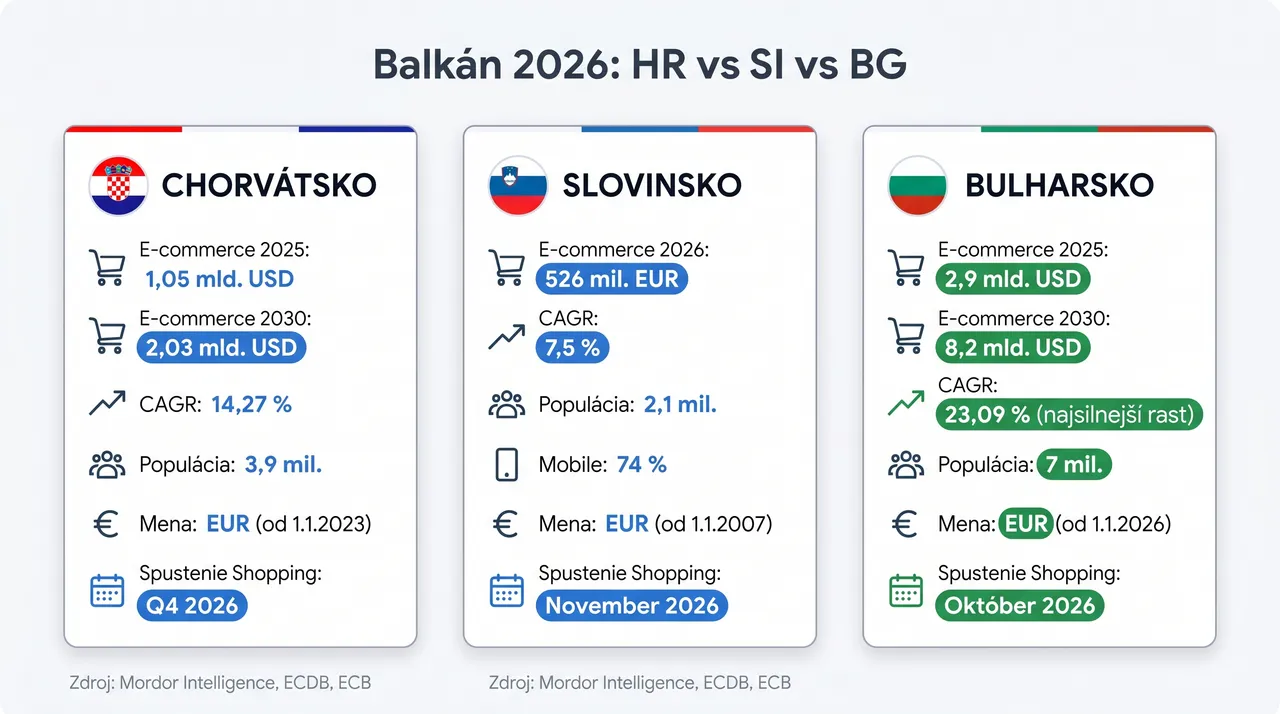
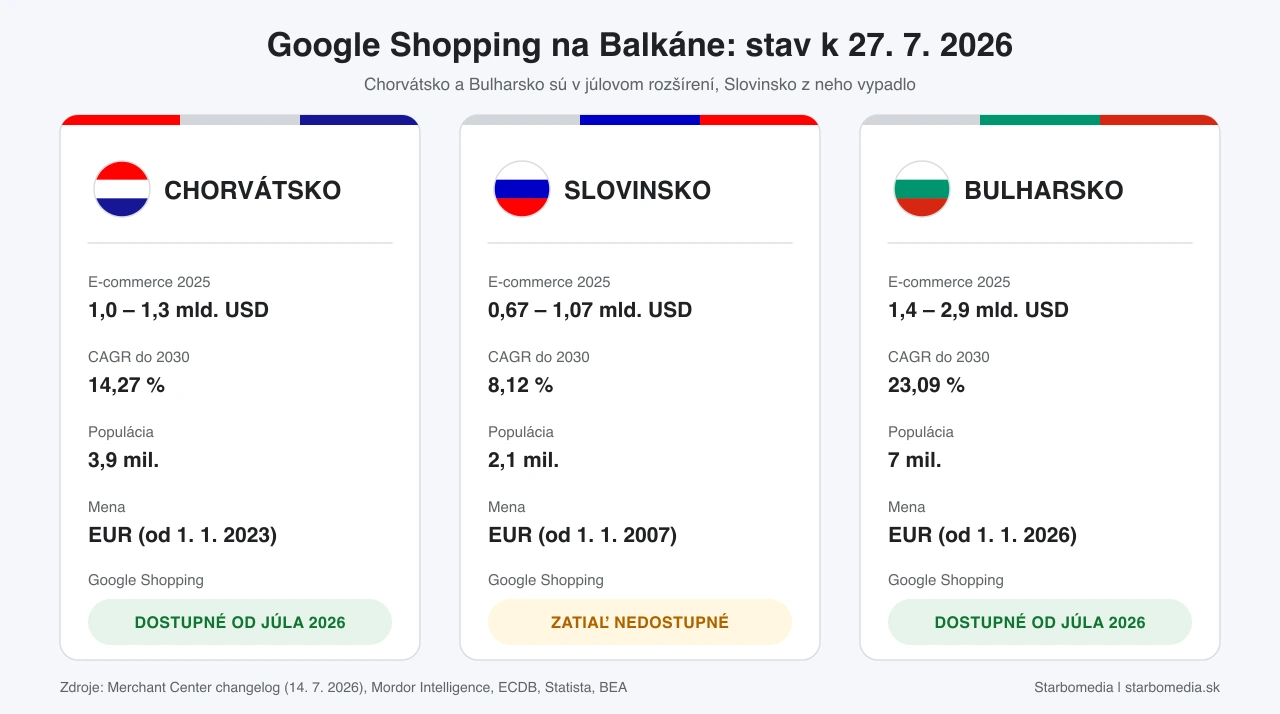
Aktualizuj Shopping Balkán článok na stav júl 2026
Google 14.7.2026 v Merchant Center changelogu otvoril Shopping ads
a free listings pre 14 trhov vrátane HR a BG. Slovinsko v zozname
nie je ani v oficiálnej tabuľke podporovaných krajín.

- nová sekcia s aktualizáciou + prepísaný TL;DR
- roadmapa prepísaná na aktuálny stav, marcový plán ponechaný ako kontext
- stavové riadky pri HR/SI/BG namiesto plánovaných sezónnych okien
- akčný plán prepísaný z "pripravte sa na Q4" na "spustite HR/BG teraz"
- FAQ: prepísaná úvodná otázka + nová o chýbajúcom Slovinsku
- porovnávacia infografika pregenerovaná (mala zlé dátumy spustenia)
- nový title, excerpt a modified; URL a datePublished nezmenené

diff --git a/src/content/blog/html/google-shopping-kampane-v-chorvatsku-slovinsku-a-bulharsku-co-prinesie-roll-out-v-2026.html b/src/content/blog/html/google-shopping-kampane-v-chorvatsku-slovinsku-a-bulharsku-co-prinesie-roll-out-v-2026.html
@@ -1,10 +1,11 @@
 <article class="ucp-article"><header>
-<p><time datetime="2026-04-28">28. apríla 2026</time> · Čas čítania: 17 min</p>
+<p><time datetime="2026-04-28">28. apríla 2026</time> · Aktualizované <time datetime="2026-07-27">27. júla 2026</time> · Čas čítania: 18 min</p>
 </header><nav aria-label="Obsah článku"><strong>Obsah</strong>
 <ol>
+<li><a href="#aktualizacia">Aktualizácia: čo sa zmenilo v júli 2026</a></li>
 <li><a href="#tldr">TL;DR</a></li>
 <li><a href="#co-sa-meni">Čo sa konkrétne mení</a></li>
-<li><a href="#roadmapa">Roadmapa rozšírenia (stav apríl 2026)</a></li>
+<li><a href="#roadmapa">Stav rozšírenia (júl 2026)</a></li>
 <li><a href="#preco-chybal">Prečo Shopping na týchto trhoch chýbal</a></li>
 <li><a href="#prilezitost">Príležitosť a riziká pre eshopy v 2026</a></li>
 <li><a href="#priprava">Praktická príprava pre eshopy</a></li>
@@ -14,21 +15,28 @@
 <li><a href="#faq">Často kladené otázky</a></li>
 </ol>
 </nav>
+<section id="aktualizacia">
+<h2>Aktualizácia: čo sa zmenilo v júli 2026</h2>
+<blockquote>
+<p><strong>Aktualizované 27. júla 2026.</strong> Rozšírenie medzičasom prebehlo – a dopadlo inak, než hovoril marcový plán. V <a target="_blank" href="https://support.google.com/merchants/announcements/6192467?hl=en" rel="noopener" title="Merchant Center announcements change log">changelogu Merchant Center</a> zo <strong>14. júla 2026</strong> Google oznámil, že Shopping ads aj bezplatné produktové záznamy sú <strong>od júla 2026</strong> dostupné v 14 nových krajinách. Medzi nimi je <strong>Chorvátsko aj Bulharsko</strong>. <strong>Slovinsko v tom zozname nie je</strong> – a nie je ani v oficiálnej tabuľke <a target="_blank" href="https://support.google.com/merchants/answer/160637" rel="noopener" title="Shopping ads availability by country and currency">podporovaných krajín a mien</a>, kde sú Chorvátsko aj Bulharsko už uvedené s menou EUR.</p>
+<p>Pôvodné delenie na Wave 1 (leto) a Wave 2 (Q4) teda v tejto podobe neplatí: <strong>HR a BG viete cieliť už dnes</strong>, <strong>SI zatiaľ nie</strong> a Google preň nekomunikoval náhradný termín. Text článku sme podľa toho prepísali, pôvodnú marcovú roadmapu sme nechali nižšie ako kontext.</p>
+</blockquote>
+</section>
 <section id="tldr">
 <h2>TL;DR</h2>
 <ul>
-<li><strong>25. marca 2026</strong> Google <a target="_blank" href="https://www.seroundtable.com/google-expands-shopping-ads-to-15-new-european-markets-41112.html" rel="noopener" title="Google Expands Shopping Ads To 15 New European Markets">oznámil rozšírenie Shopping Ads</a> do <strong>15 ďalších európskych trhov</strong>. Rozšírenie prebieha v dvoch fázach.</li>
-<li><strong>Wave 1</strong> je naplánovaná pred back-to-school sezónou (leto 2026): Cyprus, Luxembursko, Moldavsko, Severné Macedónsko, Malta, Lichtenštajnsko.</li>
-<li><strong>Wave 2</strong> je naplánovaná pred holiday season (Q4 2026): Bulharsko, Chorvátsko, Slovinsko, Litva, Srbsko, Bosna a Hercegovina, Čierna Hora, Estónsko, Lotyšsko.</li>
-<li><strong>Konkrétne mesiace</strong> Google oficiálne nepotvrdil. Niektoré sekundárne zdroje uvádzajú pre Bulharsko október 2026 a pre ostatné Wave 2 trhy november 2026, ale tieto dátumy treba brať ako <strong>odhad</strong>, nie záväzok.</li>
-<li>Pre eshopy v CEE regióne, ktoré cielia alebo plánujú expandovať na tieto trhy, ide o relevantnú zmenu: doteraz boli odkázané prevažne na Search kampane, čo limituje škálovanie produktovo orientovaných kampaní.</li>
-<li><strong>Príprava feedu, lokalizácie a Merchant Center účtu</strong> sa oplatí začať s dostatočným predstihom – ideálne v lete 2026, aby ste boli pripravení na deň otvorenia trhu.</li>
+<li><strong>Chorvátsko a Bulharsko: dostupné.</strong> Podľa changelogu Merchant Center zo 14. júla 2026 Google rozšíril podporu Shopping ads a bezplatných záznamov na 14 nových trhov – Bulharsko, Bosna a Hercegovina, Chorvátsko, Cyprus, Estónsko, Lotyšsko, Luxembursko, Litva, Lichtenštajnsko, Moldavsko, Čierna Hora, Severné Macedónsko, Malta a Srbsko.</li>
+<li><strong>Slovinsko: zatiaľ nie.</strong> V júlovom zozname chýba a v tabuľke podporovaných krajín riadok pre Slovinsko nenájdete. Sekundárne zdroje ďalej odhadujú Q4 2026, prípadne neskôr, ale <strong>oficiálny dátum od Google neexistuje</strong>.</li>
+<li>Marcové oznámenie hovorilo o <strong>15 trhoch v dvoch vlnách</strong> (leto + Q4). Reálne prišlo 14 trhov naraz v júli a Slovinsko z rozšírenia vypadlo.</li>
+<li>Google k oznámeniu pripája podmienku, že ponuka musí spĺňať <strong>miestnu legislatívu aj Shopping politiky</strong> daného trhu – samotná dostupnosť krajiny nič negarantuje.</li>
+<li>Dostupnosť trhu ešte nie je výsledok. Rozhoduje <strong>kvalita feedu, lokalizácia, doprava a return policy</strong> – to sa nezmenilo.</li>
+<li>Kto má feed pripravený, môže v HR a BG spúšťať teraz a chytiť sezónu. Okno s tenšou aukciou trvá len dovtedy, kým sa aukcia nezaplní konkurenciou.</li>
 </ul>
 </section>
 <section id="co-sa-meni">
 <h2>Čo sa konkrétne mení</h2>
-<p>V Starbomedia spravujeme PPC kampane pre eshopy v 12+ krajinách CEE. Niekoľko našich klientov už predáva alebo plánuje predávať na Chorvátsku, Slovinsku alebo v Bulharsku. Doteraz sme tam mali k dispozícii len Search kampane – Shopping format na týchto trhoch zatiaľ nebol dostupný.</p>
-<p>To sa od Q4 2026 mení. Google Shopping kampane budú pre tieto trhy postupne sprístupnené. Z agentúrneho pohľadu je to vítaná zmena – nie však revolúcia v zmysle, že zo dňa na deň prepíše konkurenčné prostredie. Skutočný dopad bude závisieť od toho, koľko inzerentov sa pripraví, aký budú mať feed, a ako rýchlo Google trh otvorí pre Performance Max a CSS partnerov.</p>
+<p>V Starbomedia spravujeme PPC kampane pre eshopy v 12+ krajinách CEE. Niekoľko našich klientov už predáva alebo plánuje predávať na Chorvátsku, Slovinsku alebo v Bulharsku. Roky sme tam mali k dispozícii len Search kampane – Shopping formát na týchto trhoch dostupný nebol.</p>
+<p>Pre Chorvátsko a Bulharsko sa to v júli 2026 zmenilo – Shopping kampane tam viete spustiť. Pre Slovinsko zatiaľ nie. Z agentúrneho pohľadu je to vítaná zmena, nie však revolúcia v zmysle, že zo dňa na deň prepíše konkurenčné prostredie. Skutočný dopad bude závisieť od toho, koľko inzerentov sa pripraví a aký budú mať feed.</p>
 <h3>Aký je rozdiel medzi Search a Shopping kampaňami</h3>
 <p><strong>Search kampane</strong> zobrazujú textovú reklamu na základe kľúčového slova zadaného v ad-group. Inzerent kontroluje keyword listy, bidy a copy.</p>
 <p><strong>Shopping kampane</strong> zobrazujú produkt (obrázok, cena, brand, hodnotenie) na základe <strong>produktového feedu</strong> v Google Merchant Center. Google sám rozhoduje, na ktoré dotazy zobrazí ktorý produkt, a optimalizuje na základe Performance Max alebo Smart bidding stratégie.</p>
@@ -43,40 +51,35 @@
 <p>Externý kontext: <a target="_blank" href="https://dgtalents.com/en/blog/google-shopping-bulgaria" rel="noopener" title="Google Shopping Is Coming to Bulgaria">DG Talents</a> cituje dáta, že Shopping Ads generujú približne <strong>66 % všetkých Google klikov pre retailové vyhľadávania</strong> a viac než <strong>75 % retail reklamných rozpočtov</strong> smeruje do Shoppingu. Toto sú dáta o klikoch a rozpočtoch, nie konverziách – metriky nemiešajme.</p>
 <blockquote>
 <p>„Pre klientov, ktorí cielia na Balkán, sme posledné roky museli pracovať len so Search kampaňami. To má svoje limity – najmä pri produktovom portfóliu o tisíckach SKU. Otvorenie Shoppingu tieto limity uvoľní, ale výsledný dopad bude závisieť od toho, ako kvalitne sa eshopy pripravia. Konkurencia, ktorá investuje do feedu a lokalizácie pred otvorením trhu, bude mať v prvých mesiacoch jednoznačnú prevahu.“</p>
-<p>— <strong>Peter Štrbo, CEO Starbomedia</strong></p>
+<p>– <strong>Peter Štrbo, CEO Starbomedia</strong></p>
 </blockquote>
 </section>
 <section id="roadmapa">
-<h2>Roadmapa rozšírenia (stav apríl 2026)</h2>
-<p>Google <a target="_blank" href="https://ppcnewsfeed.com/ppc-news/2026-03/google-expands-shopping-ads-15-european-markets/" rel="noopener" title="Google Expands Shopping Ads to 15 New European Markets">oznámil rozšírenie</a> 25. marca 2026 prostredníctvom oficiálneho komunikátu Merchant Center. Roll-out je rozdelený do dvoch fáz, ktoré nadväzujú na obchodné sezóny:</p>
-<h3>Wave 1 – pred back-to-school sezónou (leto 2026)</h3>
+<h2>Stav rozšírenia (júl 2026)</h2>
+<h3>Čo je dostupné dnes</h3>
+<p>Google 14. júla 2026 v <a target="_blank" href="https://support.google.com/merchants/announcements/6192467?hl=en" rel="noopener" title="Merchant Center announcements change log">changelogu Merchant Center</a> oznámil, že rozširuje podporu Shopping ads aj bezplatných produktových záznamov na <strong>14 nových trhov</strong>. Rozšírenie sa začalo rolovať v júli 2026:</p>
 <ul>
-<li>Cyprus</li>
-<li>Luxembursko</li>
-<li>Moldavsko</li>
-<li>Severné Macedónsko</li>
-<li>Malta</li>
-<li>Lichtenštajnsko</li>
+<li><strong>Bulharsko</strong> ✅</li>
+<li><strong>Chorvátsko</strong> ✅</li>
+<li>Bosna a Hercegovina, Cyprus, Estónsko, Lotyšsko, Litva</li>
+<li>Luxembursko, Lichtenštajnsko, Malta, Moldavsko</li>
+<li>Čierna Hora, Severné Macedónsko, Srbsko</li>
 </ul>
-<h3>Wave 2 – pred holiday season (Q4 2026)</h3>
+<p>Chorvátsko aj Bulharsko medzitým pribudli aj do oficiálnej tabuľky <a target="_blank" href="https://support.google.com/merchants/answer/160637" rel="noopener" title="Shopping ads availability by country and currency">podporovaných krajín a mien</a> (obe s menou EUR). To je najspoľahlivejšie miesto, kde si viete stav ktoréhokoľvek trhu overiť sami – aktualizuje ho priamo Google.</p>
+<h3>Slovinsko z rozšírenia vypadlo</h3>
+<p>Marcové oznámenie hovorilo o 15 trhoch a Slovinsko medzi nimi bolo. V júlovom zozname 14 krajín <strong>Slovinsko nie je</strong> a v tabuľke podporovaných krajín preň riadok neexistuje (medzi Slovenskom a Južnou Afrikou nie je nič).</p>
+<p>Google dôvod ani náhradný termín nekomunikoval. Časť sekundárnych zdrojov naďalej píše o Q4 2026, iné o roku 2027 – <strong>žiadny z týchto dátumov nie je potvrdený</strong>. Ak cielite na Slovinsko, pripravujte sa, ale neplánujte kampaň na konkrétny mesiac.</p>
+<h3>Pôvodný marcový plán (pre kontext)</h3>
+<p>Google <a target="_blank" href="https://ppcnewsfeed.com/ppc-news/2026-03/google-expands-shopping-ads-15-european-markets/" rel="noopener" title="Google Expands Shopping Ads to 15 New European Markets">oznámil rozšírenie</a> 25. marca 2026 a komunikoval ho v dvoch vlnách naviazaných na obchodné sezóny:</p>
 <ul>
-<li><strong>Bulharsko</strong></li>
-<li><strong>Chorvátsko</strong></li>
-<li><strong>Slovinsko</strong></li>
-<li>Litva</li>
-<li>Srbsko</li>
-<li>Bosna a Hercegovina</li>
-<li>Čierna Hora</li>
-<li>Estónsko</li>
-<li>Lotyšsko</li>
+<li><strong>Wave 1</strong> – pred back-to-school sezónou: Cyprus, Luxembursko, Moldavsko, Severné Macedónsko, Malta, Lichtenštajnsko.</li>
+<li><strong>Wave 2</strong> – pred holiday season (Q4 2026): Bulharsko, Chorvátsko, Slovinsko, Litva, Srbsko, Bosna a Hercegovina, Čierna Hora, Estónsko, Lotyšsko.</li>
 </ul>
-<blockquote>
-<p><strong>Poznámka k dátumom:</strong> Google oficiálne nepotvrdil konkrétne mesiace pre jednotlivé krajiny – komunikácia je v rovine sezónnych okien („back-to-school“, „holiday season“). <a target="_blank" href="https://dgtalents.com/en/blog/google-shopping-bulgaria" rel="noopener" title="Google Shopping Is Coming to Bulgaria">DG Talents</a> (21.3.2026) uvádza pre Bulharsko október 2026 a niektoré ďalšie zdroje pre zvyšok Wave 2 november 2026, ale tieto údaje nie sú oficiálne potvrdené Google. Eshopy by si mali pripraviť plán na <strong>Q4 2026</strong> ako celok, nie sa fixovať na konkrétny mesiac.</p>
-</blockquote>
-<p>Zdroje pre oznámenie: <a target="_blank" href="https://www.seroundtable.com/google-expands-shopping-ads-to-15-new-european-markets-41112.html" rel="noopener" title="Google Expands Shopping Ads To 15 New European Markets">Search Engine Roundtable</a> (26.3.2026), <a target="_blank" href="https://ppcnewsfeed.com/ppc-news/2026-03/google-expands-shopping-ads-15-european-markets/" rel="noopener" title="Google Expands Shopping Ads to 15 New European Markets">PPC News Feed</a> (25.3.2026), <a target="_blank" href="https://partner.shoparize.com/en/article/google-shopping-ads-are-launching-in-15-new-emea-markets-in-2026" rel="noopener" title="Google Shopping Ads Are Launching in 15 New EMEA Markets">Shoparize Partner</a> (26.3.2026).</p>
+<p>Realita bola iná: obe vlny prišli naraz v júli, teda skôr, než sa čakalo pri Wave 2 – a bez Slovinska. Je to dobrá pripomienka, že sezónne okná v Google komunikácii sú orientačné a jediný spoľahlivý zdroj je oficiálna tabuľka podporovaných krajín.</p>
+<p>Zdroje pre pôvodné oznámenie: <a target="_blank" href="https://www.seroundtable.com/google-expands-shopping-ads-to-15-new-european-markets-41112.html" rel="noopener" title="Google Expands Shopping Ads To 15 New European Markets">Search Engine Roundtable</a> (26.3.2026), <a target="_blank" href="https://ppcnewsfeed.com/ppc-news/2026-03/google-expands-shopping-ads-15-european-markets/" rel="noopener" title="Google Expands Shopping Ads to 15 New European Markets">PPC News Feed</a> (25.3.2026).</p>
 <h3>Chorvátsko – kľúčové údaje</h3>
 <ul>
-<li><strong>Plánované sezónne okno:</strong> Q4 2026 (holiday season)</li>
+<li><strong>Stav k 27. 7. 2026:</strong> ✅ dostupné – Chorvátsko je v júlovom zozname aj v oficiálnej tabuľke podporovaných krajín</li>
 <li><strong>Mena:</strong> EUR (Chorvátsko prijalo euro 1. januára 2023)</li>
 <li><strong>Lokálny jazyk feedu:</strong> chorvátčina (HR)</li>
 </ul>
@@ -112,7 +115,7 @@
 <p>Realistický <strong>rozsah</strong> veľkosti trhu pre 2025 je <strong>~1,0 – 1,3 mld. USD</strong>. Internet penetrácia je podľa Mordor 84 %, podiel online nakupujúcich približne 80 % populácie. Najsilnejší lokálni hráči: eKupi, Konzum, Emmezeta, PinkPanda. Z pohľadu nadšenia lokálneho ekosystému stojí za pozornosť, že <a target="_blank" href="https://newsletter.azine.hr/p/shopping-oglasi-balkan" rel="noopener" title="Google Shopping oglasi napokon dolaze u Hrvatsku">chorvátske médiá</a> reagovali na oznámenie pozitívne („Google Shopping oglasi napokon dolaze u Hrvatsku“).</p>
 <h3>Slovinsko – kľúčové údaje</h3>
 <ul>
-<li><strong>Plánované sezónne okno:</strong> Wave 2, Q4 2026</li>
+<li><strong>Stav k 27. 7. 2026:</strong> ⏳ zatiaľ nedostupné – Slovinsko nie je v júlovom zozname ani v tabuľke podporovaných krajín, Google nový termín nepotvrdil</li>
 <li><strong>Mena:</strong> EUR (Slovinsko prijalo euro 1. januára 2007)</li>
 <li><strong>Lokálny jazyk feedu:</strong> slovinčina (SL)</li>
 </ul>
@@ -143,7 +146,7 @@
 <p>Realistický rozsah pre 2025 je <strong>~665M – 1,07 mld. USD</strong> v závislosti od metodiky. Mordor uvádza mobile share ~74 % traffic, čo je z troch trhov najvyššia hodnota – Slovinsko je <strong>mobile-first</strong> trh. Slovinský trh má z troch krajín najvyššiu kúpnu silu na obyvateľa, ale aj najmenšiu populáciu (2,1 mil.). Pre eshopy z SK/CZ je často prirodzeným prvým krokom expanzie smerom na juh.</p>
 <h3>Bulharsko – kľúčové údaje</h3>
 <ul>
-<li><strong>Plánované sezónne okno:</strong> Wave 2, Q4 2026</li>
+<li><strong>Stav k 27. 7. 2026:</strong> ✅ dostupné – Bulharsko je v júlovom zozname aj v oficiálnej tabuľke podporovaných krajín</li>
 <li><strong>Mena:</strong> EUR (Bulharsko prijalo euro 1. januára 2026)</li>
 <li><strong>Lokálny jazyk feedu:</strong> bulharčina (BG)</li>
 </ul>
@@ -184,7 +187,7 @@
 <p>Rozsah odhadov je široký – <strong>1,4 – 2,9 mld. USD pre 2025</strong> – v závislosti od toho, či sa do ecommerce zahŕňajú aj služby (BEA, Mordor) alebo len fyzické tovary (Statista, ECDB). Berte to do úvahy pri rozhodovaní o investícii.</p>
 <p>Bulharsko je z troch krajín <strong>populačne najväčšie</strong> (7 mil. obyvateľov) a podľa všetkých metodík vykazuje najsilnejšie tempo rastu. <strong>Prijatie eura 1. januára 2026</strong> je súčasne dôležitý kontext: zjednodušuje multi-currency operatívu, OSS reportovanie a kurzové prepočty pre eshopy z eurozóny. Podľa <a target="_blank" href="https://www.ecb.europa.eu/press/blog/date/2026/html/ecb.blog20260409~cc951a0d29.en.html" rel="noopener" title="Euro adoption and price increases in Bulgaria">European Central Bank blogu</a> (9.4.2026) prechod prebehol bez výraznejších inflačných šokov, ktorých sa pôvodne obávali.</p>
 <h3>Ďalšie nové trhy</h3>
-<p>Mimo Balkánu sú vo Wave 2 aj <strong>pobaltské krajiny</strong> (Estónsko, Lotyšsko, Litva). Litva má podľa <a target="_blank" href="https://www.threechaptermedia.com/blog/google-shopping-ads-expansion-2026" rel="noopener" title="Google Shopping Ads Expansion 2026">Three Chapter Media</a> e-commerce trh okolo 3,18 mld. USD a doteraz tam Shopping kampane neboli dostupné. Pre eshopy cieliace na Pobaltie je to ďalšia relevantná zmena.</p>
+<p>Mimo Balkánu sú v júlovom rozšírení aj <strong>pobaltské krajiny</strong> (Estónsko, Lotyšsko, Litva) – všetky tri sú už dostupné. Litva má podľa <a target="_blank" href="https://www.threechaptermedia.com/blog/google-shopping-ads-expansion-2026" rel="noopener" title="Google Shopping Ads Expansion 2026">Three Chapter Media</a> e-commerce trh okolo 3,18 mld. USD a Shopping kampane tam dovtedy dostupné neboli. Pre eshopy cieliace na Pobaltie je to ďalšia relevantná zmena.</p>
 </section>
 <section id="preco-chybal">
 <h2>Prečo Shopping na týchto trhoch chýbal</h2>
@@ -215,21 +218,21 @@
 </ul>
 <p>Tiež si treba uvedomiť, že <strong>CSS partneri</strong> (Shoppingin.eu, Klarna, Channable, Producthero) môžu podľa <a target="_blank" href="https://www.channable.com/blog/google-shopping-css-partners" rel="noopener" title="How to choose the right Google Shopping CSS partner">verejných údajov</a> ponúknuť bidovú výhodu odhadovanú približne na 20 %. Reálna úspora závisí od kategórie a aukcie, ale v early phase môže ísť o relevantnú páku.</p>
 <h3>Modelové benchmarky pre plánovanie</h3>
-<p>Tieto čísla sú <strong>modelové predpoklady na plánovací modeling</strong>, postavené na analógii skoršieho Shopping launchu v iných CEE krajinách. <strong>Reálne dáta uvidíme až po Q4 2026</strong> a môžu sa od nich líšiť o 30 % a viac:</p>
+<p>Tieto čísla sú <strong>modelové predpoklady na plánovací modeling</strong>, postavené na analógii skoršieho Shopping launchu v iných CEE krajinách. <strong>Prvé reálne dáta z HR a BG budeme mať až po niekoľkých týždňoch prevádzky</strong> a môžu sa od modelu líšiť o 30 % a viac:</p>
 <ul>
 <li><strong>Avg CPC Shopping (early phase, modelovo):</strong> 0,15 – 0,40 EUR (HR, BG); 0,25 – 0,60 EUR (SI)</li>
 <li><strong>Modelová konverzná miera:</strong> 1 – 2,5 % (Shopping)</li>
 <li><strong>Cieľový ROAS pri marži 30 %:</strong> ≥ 4× pre breakeven s overhead</li>
 </ul>
 <p>Žiadne z týchto čísel neberte ako záruku.</p>
-<figure><img src="/blog/google-shopping-kampane-v-chorvatsku-slovinsku-a-bulharsku-co-prinesie-roll-out-v-2026/chorvatsko-slovinsko-bulharsko-porovnanie-2026.webp" alt="Porovnávacia infografika trhov Chorvátsko, Slovinsko, Bulharsko – e-commerce veľkosť, populácia, mena a sezónne okno spustenia Google Shopping v 2026" width="1280" height="714" loading="lazy" decoding="async">
-<figcaption>Tri Wave 2 Balkán trhy v rozsahoch z viacerých metodológií – nie sú to garantované čísla, slúžia na orientáciu.</figcaption>
+<figure><img src="/blog/google-shopping-kampane-v-chorvatsku-slovinsku-a-bulharsku-co-prinesie-roll-out-v-2026/chorvatsko-slovinsko-bulharsko-porovnanie-2026.webp" alt="Porovnávacia infografika trhov Chorvátsko, Slovinsko a Bulharsko – veľkosť e-commerce trhu, populácia, mena a stav dostupnosti Google Shopping k júlu 2026" width="1280" height="714" loading="lazy" decoding="async">
+<figcaption>Tri balkánske trhy v rozsahoch z viacerých metodológií – nie sú to garantované čísla, slúžia na orientáciu. Stav dostupnosti Shoppingu k 27. 7. 2026.</figcaption>
 </figure>
 </section>
 <section id="priprava">
 <h2>Praktická príprava pre eshopy</h2>
 <h3>Príprava produktového feedu</h3>
-<p>Feed je z nášho pohľadu najdôležitejší pilier prípravy. Bez kvalitného feedu nepomôže ani najlepšia bid stratégia. Audit by mal pokrývať:</p>
+<p>Feed je z nášho pohľadu najdôležitejší pilier prípravy. Bez kvalitného feedu nepomôže ani najlepšia bid stratégia. Detailne sa tejto téme venujeme v článku <a href="/optimalizacia-google-merchant-center-a-shopping-feedu-2026" title="Optimalizácia Google Merchant Center a Shopping feedu 2026">Optimalizácia Google Merchant Center a Shopping feedu 2026</a>; v skratke by audit mal pokrývať:</p>
 <ol>
 <li><strong>Title</strong> – brand + produktová kategória + kľúčové atribúty (veľkosť, farba, materiál). Maximálne 150 znakov.</li>
 <li><strong>Description</strong> – aspoň 500 znakov, prirodzená štruktúra, bez keyword stuffingu.</li>
@@ -244,7 +247,7 @@
 </ol>
 <h3>Lokalizácia feedu</h3>
 <p>Toto je oblasť, kde najviac eshopov padá. Strojový preklad (DeepL, Google Translate) je vhodný <strong>ako prvý draft</strong>, ale pre titles a top-100 produktov odporúčame native speaker review. Dôvod: chorvátčina, slovinčina a najmä bulharčina (azbuka, odlišná gramatika) majú špecifiká, ktoré strojový preklad často nezvládne na úrovni vhodnej pre commerce copy.</p>
-<p><strong>Mena:</strong> všetky tri trhy budú mať od Q4 2026 EUR. To zjednodušuje multi-currency setup. Cena na landing page MUSÍ presne zodpovedať feedu.</p>
+<p><strong>Mena:</strong> všetky tri trhy majú EUR, takže multi-currency setup odpadá. Cena na landing page musí presne zodpovedať feedu.</p>
 <p><strong>Doprava:</strong> najčastejšia chyba pri expanzii. Pre HR, SI, BG zvyčajne potrebujete:</p>
 <ul>
 <li>Lokálneho doručovateľa (GLS, DPD, SPS Bulgaria, Hrvatska Pošta…)</li>
@@ -282,25 +285,26 @@
 </section>
 <section id="akcny-plan">
 <h2>Akčný plán – ako sa pripraviť</h2>
-<h3>Ak už máte e-shop na týchto trhoch (Search-only)</h3>
-<p>Vaša pozícia je výhodnejšia – máte history, brand awareness a conversion data. Realistický timeline:</p>
+<h3>Chorvátsko a Bulharsko: už sa dá spúšťať</h3>
+<p>Tu sa plán zmenil z „pripravte sa“ na „spustite“. Do vianočnej sezóny ostáva dosť času na to, aby kampaň stihla vyjsť z learning fázy a nazbierať conversion data ešte pred Black Friday. Ak už na týchto trhoch beží Search, máte výhodu – history, brand awareness a konverzné dáta v účte.</p>
 <ul>
-<li><strong>Apríl – jún 2026:</strong> Audit existujúceho feedu, aktualizácia atribútov pre 2026 štandardy.</li>
-<li><strong>Júl – august 2026:</strong> Lokalizácia top-1000 produktov do lokálneho jazyka, native review.</li>
-<li><strong>September 2026:</strong> Merchant Center účty per krajina, link na Google Ads, claim domén.</li>
-<li><strong>Október 2026:</strong> Test feed upload, debug disapprovals, príprava prvej kampane v draft móde.</li>
-<li><strong>Q4 2026:</strong> Spustenie Shopping kampaní v deň otvorenia trhu.</li>
+<li><strong>Hneď:</strong> audit feedu proti 2026 atribútom, Merchant Center účet pre danú krajinu, claim domény, shipping a return policy.</li>
+<li><strong>Do 2 – 3 týždňov:</strong> lokalizácia titulkov a popisov, natívny review top produktov, test upload a odladenie disapprovalov.</li>
+<li><strong>September:</strong> spustenie Performance Max + Standard Shopping, prvé dáta.</li>
+<li><strong>Október:</strong> optimalizácia rozpočtu a bidov na základe reálnych dát, nie modelu.</li>
+<li><strong>November:</strong> škálovanie do sezóny na už stabilizovaných kampaniach.</li>
 </ul>
-<h3>Ak ešte len plánujete expanziu</h3>
-<p>Bez existujúceho Search history nemáte poznatky o miestnom dopyte. Naše odporúčanie:</p>
+<p>Kto to odloží na október, bude v Black Friday týždni bidovať s kampaňou v learning fáze. To je najdrahší možný scenár.</p>
+<h3>Slovinsko: pripravte sa, ale nefixujte dátum</h3>
+<p>Slovinsko z rozšírenia vypadlo a Google nekomunikoval, kedy príde. Čo dáva zmysel robiť teraz:</p>
 <ul>
-<li><strong>Apríl – jún 2026:</strong> Spustite aspoň základné Search kampane na zber dát (CR bude nižší než neskorší Shopping, ale history je hodnotné).</li>
-<li><strong>Júl – september 2026:</strong> Setup feedu, Merchant Center, lokalizácia.</li>
-<li><strong>Q4 2026:</strong> Súbežne spustite Shopping kampane.</li>
-<li><strong>Q1 2027:</strong> Aktívne testovanie a škálovanie. Buďte trpezliví – early phase má volatilitu.</li>
+<li>Držte na trhu <strong>Search kampane</strong> – zbierate dopytové dáta aj konverznú históriu, ktorú Shopping neskôr využije.</li>
+<li>Feed pripravte tak, aby sa dal <strong>zapnúť do týždňa</strong> od otvorenia trhu (lokalizácia, shipping, returns).</li>
+<li>Raz mesačne skontrolujte oficiálnu tabuľku <a target="_blank" href="https://support.google.com/merchants/answer/160637" rel="noopener" title="Shopping ads availability by country and currency">podporovaných krajín</a>. Keď tam Slovinsko pribudne, je to hotová vec – skôr nie.</li>
+<li>Rozpočet plánovaný na SI Shopping medzitým vie zarobiť v HR alebo BG, kde už kanál otvorený je.</li>
 </ul>
 <h3>Skrátený 4 – 6 týždňový timeline</h3>
-<p>Pre tých, ktorí čítajú článok v septembri a nestihnú dlhý prípravný plán:</p>
+<p>Pre tých, ktorí chcú v HR alebo BG stihnúť sezónu a nemajú priestor na dlhú prípravu:</p>
 <div class="table-wrapper">
 <table>
 <thead>
@@ -332,7 +336,7 @@
 </tr>
 <tr>
 <td>6</td>
-<td>Final QA, spustenie po oficiálnom otvorení trhu</td>
+<td>Final QA a spustenie kampaní</td>
 </tr>
 </tbody>
 </table>
@@ -341,17 +345,19 @@
 </section>
 <section id="zaver">
 <h2>Záver</h2>
-<p>Otvorenie Google Shopping kampaní v Chorvátsku, Slovinsku, Bulharsku a v ďalších 12 trhoch je z agentúrneho pohľadu <strong>dôležitá zmena</strong>, ktorá zjednodušuje produktovo orientovaný marketing pre eshopy v týchto krajinách. Nie je to však revolúcia, ktorá zo dňa na deň prepíše konkurenčné prostredie – jej dopad sa prejaví postupne, v závislosti od toho, ako kvalitne sa jednotlivé eshopy pripravia.</p>
+<p>Otvorenie Google Shopping kampaní v Chorvátsku, Bulharsku a v ďalších 12 trhoch je z agentúrneho pohľadu <strong>dôležitá zmena</strong>, ktorá zjednodušuje produktovo orientovaný marketing pre eshopy v týchto krajinách. Nie je to však revolúcia, ktorá zo dňa na deň prepíše konkurenčné prostredie – jej dopad sa prejaví postupne, v závislosti od toho, ako kvalitne sa jednotlivé eshopy pripravia.</p>
+<p>Slovinsko je pripomienkou, že ohlásený plán a realita sa môžu rozísť. Kto si v apríli naplánoval spoločný launch všetkých troch trhov na november, má teraz dva trhy otvorené skôr, než čakal, a jeden bez termínu.</p>
 <p>Naše odporúčanie pre eshopy v CEE regióne:</p>
 <ol>
 <li><strong>Posúďte expozíciu</strong> na HR, SI, BG (cez Search, Meta Ads, SEO traffic).</li>
-<li><strong>Začnite s prípravou feedu a lokalizácie v dostatočnom predstihu</strong> – Q4 2026 nečaká do septembra.</li>
+<li><strong>V HR a BG nečakajte</strong> – kanál je otvorený a každý týždeň odkladu je týždeň, ktorý kampaň nemá na zber dát pred sezónou.</li>
+<li><strong>Pre SI pripravte feed, ale neplánujte dátum</strong> – riaďte sa oficiálnou tabuľkou podporovaných krajín, nie odhadmi v článkoch.</li>
 <li><strong>Vyberte si prioritný trh</strong> podľa kombinácie veľkosti, kúpnej sily a vašej product-market fit.</li>
-<li><strong>Investujte do lokalizácie</strong> – natívnej, nie čisto strojovej, aspoň pre titles a top-100 produktov.</li>
+<li><strong>Investujte do lokalizácie</strong> – natívnej, nie čisto strojovej, aspoň pre titulky a top-100 produktov.</li>
 <li><strong>Zvážte CSS partnera</strong> – v early phase môže byť bidová výhoda relevantná, hoci konkrétne čísla závisia od kategórie.</li>
 <li><strong>Nastavte si realistické očakávania</strong> – early phase je volatilná. Plánujte rozpočet aj pre +/- 30 % odchýlky od modelu.</li>
 </ol>
-<p>Ak potrebujete pomoc s prípravou Shopping kampaní pre Wave 2 trhy, <a href="/" title="Starbomedia">napíšte nám</a>.</p>
+<p>Ak potrebujete pomoc so spustením Shopping kampaní na nových trhoch, <a href="/" title="Starbomedia">napíšte nám</a>.</p>
 <blockquote>
 <p>Pre kontext, ako sa vyhodnocuje výnosnosť Shopping kampaní, odporúčame náš článok <a href="/preco-roas-nestaci-poas-vam-odhali-skutocny-zisk-z-reklamy" title="Prečo ROAS nestačí – POAS vám odhalí skutočný zisk z reklamy">Prečo ROAS nestačí – POAS vám odhalí skutočný zisk z reklamy</a>. A ak vás zaujíma, kam smeruje feed štandard pre e-commerce, prečítajte si <a href="/universal-commerce-protocol-ucp-od-google-co-to-znamena-pre-seo-a-e-commerce-v-roku-2026" title="Universal Commerce Protocol (UCP) od Google">Universal Commerce Protocol (UCP) od Google</a>.</p>
 </blockquote>
@@ -359,8 +365,11 @@
 <section id="faq">
 <h2>Často kladené otázky</h2>
 <details>
-<summary>Kedy presne sa otvára Google Shopping v Chorvátsku, Slovinsku a Bulharsku?</summary>
-<p>Google oficiálne komunikuje len sezónne okno – Wave 2 prebehne pred holiday season 2026 (Q4). Niektoré sekundárne zdroje uvádzajú pre Bulharsko október 2026 a pre ostatné Wave 2 trhy november 2026, ale tieto dátumy nie sú oficiálne potvrdené. Plánujte na celé Q4 2026.</p>
+<summary>Dá sa už inzerovať Google Shopping v Chorvátsku, Slovinsku a Bulharsku?</summary>
+<p>V Chorvátsku a Bulharsku áno. Google v changelogu Merchant Center zo 14. júla 2026 oznámil rozšírenie Shopping ads a bezplatných produktových záznamov na 14 nových trhov vrátane HR a BG, s rolovaním od júla 2026. Obe krajiny sú už aj v oficiálnej tabuľke podporovaných krajín a mien. Slovinsko v tomto rozšírení nie je a Google preň nepotvrdil žiadny termín.</p>
+</details><details>
+<summary>Prečo Slovinsko v rozšírení chýba?</summary>
+<p>Google to nevysvetlil. V marcovom oznámení Slovinsko medzi 15 trhmi bolo, v júlovom zozname 14 krajín už nie. Rôzne agentúrne zdroje ďalej odhadujú Q4 2026 alebo rok 2027, ale žiadny z týchto dátumov nepochádza od Google. Najspoľahlivejšie je sledovať oficiálnu tabuľku podporovaných krajín a mien v nápovede Merchant Center – tam sa zmena objaví ako prvá.</p>
 </details><details>
 <summary>Potrebujem samostatný Merchant Center pre každú krajinu?</summary>
 <p>Pre väčšiu flexibilitu áno – jasnejší reporting, granulárne shipping/return policies, jednoduchšia migrácia. Menšie portfóliá môžu fungovať aj v jednom accounte s viacerými targeting krajinami.</p>
@@ -369,7 +378,7 @@
 <p>Pre prvý draft áno, pre publikovaný feed odporúčame native speaker review – minimálne pre titulky a top-100 produktov. Inak riskujete nižší CTR a horší quality score.</p>
 </details><details>
 <summary>Aká bude počiatočná konkurencia v týchto trhoch?</summary>
-<p>Očakávame, že v prvých mesiacoch po otvorení trhu bude konkurencia tenšia než v zavedených trhoch. Aukcia sa zaplní postupne podľa toho, koľko inzerentov stihne pripraviť feed. Konkrétny rozdiel v CPC sa ukáže až po reálnom spustení.</p>
+<p>Očakávame, že v prvých mesiacoch po otvorení trhu bude konkurencia tenšia než v zavedených trhoch. Aukcia sa zaplní postupne podľa toho, koľko inzerentov stihne pripraviť feed. Keďže rozšírenie prišlo v júli, teda skôr než avizovaný Q4 termín, časť inzerentov o ňom ešte ani nevie – to okno sa však bude rýchlo zatvárať.</p>
 </details><details>
 <summary>Oplatí sa CSS partner v early phase?</summary>
 <p>Pre stredné a väčšie rozpočty áno. CSS partneri (Bidnamic, Shoparize, Channable, Producthero) ponúkajú bidovú výhodu odhadovanú okolo 20 % oproti default Google CSS – reálna úspora závisí od kategórie a aukcie.</p>
@@ -387,7 +396,7 @@
 <p>Pre väčšie portfóliá (nad 1 000 produktov) odporúčame XML s priamou integráciou na e-shop platformu. Google Sheets je vhodný pre malé portfóliá alebo testovanie. Content API (App Feed) je pre real-time aktualizácie.</p>
 </details><details>
 <summary>Akú konverziu môžem očakávať v early phase HR/SI/BG Shoppingu?</summary>
-<p>Modelové predpoklady na plánovanie: CR 1,5 – 3 %, ROAS 3 – 5× pri marži 30 %. Reálne dáta uvidíme až po Q4 2026 a môžu sa od modelu líšiť o 30 % a viac. Toto nie sú garantované čísla.</p>
+<p>Modelové predpoklady na plánovanie: CR 1,5 – 3 %, ROAS 3 – 5× pri marži 30 %. Keďže sa HR a BG otvorili až v júli 2026, overené trhové dáta zatiaľ nikto nemá – tieto čísla treba brať ako východisko na modelovanie, nie ako záruku. Odchýlka o 30 % a viac je bežná.</p>
 </details><details>
 <summary>Mám už e-shop na Balkáne so Search kampaňami – ako migrácia?</summary>
 <p>Search kampane neukončujte. Search a Shopping sa dopĺňajú – Shopping pokryje produktovo-vizuálne dotazy, Search dorobí brand a long-tail. Po 90 dňoch reviewujte rozpočet split.</p>
@@ -399,7 +408,7 @@
 <p>Skontrolujte disapproval reasons v Merchant Center diagnostics. Najčastejšie príčiny: chýbajúce GTIN, image quality, mismatched price, missing shipping. Náprava obvykle stačí na re-approval do 24 – 48 hodín.</p>
 </details><details>
 <summary>Bude k dispozícii AI Mode / Gemini matching v týchto krajinách?</summary>
-<p>Áno, Performance Max a AI features sú default súčasťou Shopping ekosystému. Performance Max bude od dňa otvorenia trhu integrovať Shopping ads aj v AI-driven surface miestach. To zvyšuje význam dobre lokalizovaných descriptions.</p>
+<p>Performance Max a AI features sú štandardnou súčasťou Shopping ekosystému a integrujú Shopping ads aj v AI-driven umiestneniach. To zvyšuje význam dobre lokalizovaných popisov produktov – práve z nich modely ťahajú kontext.</p>
 </details>
 </section>
 </article>
